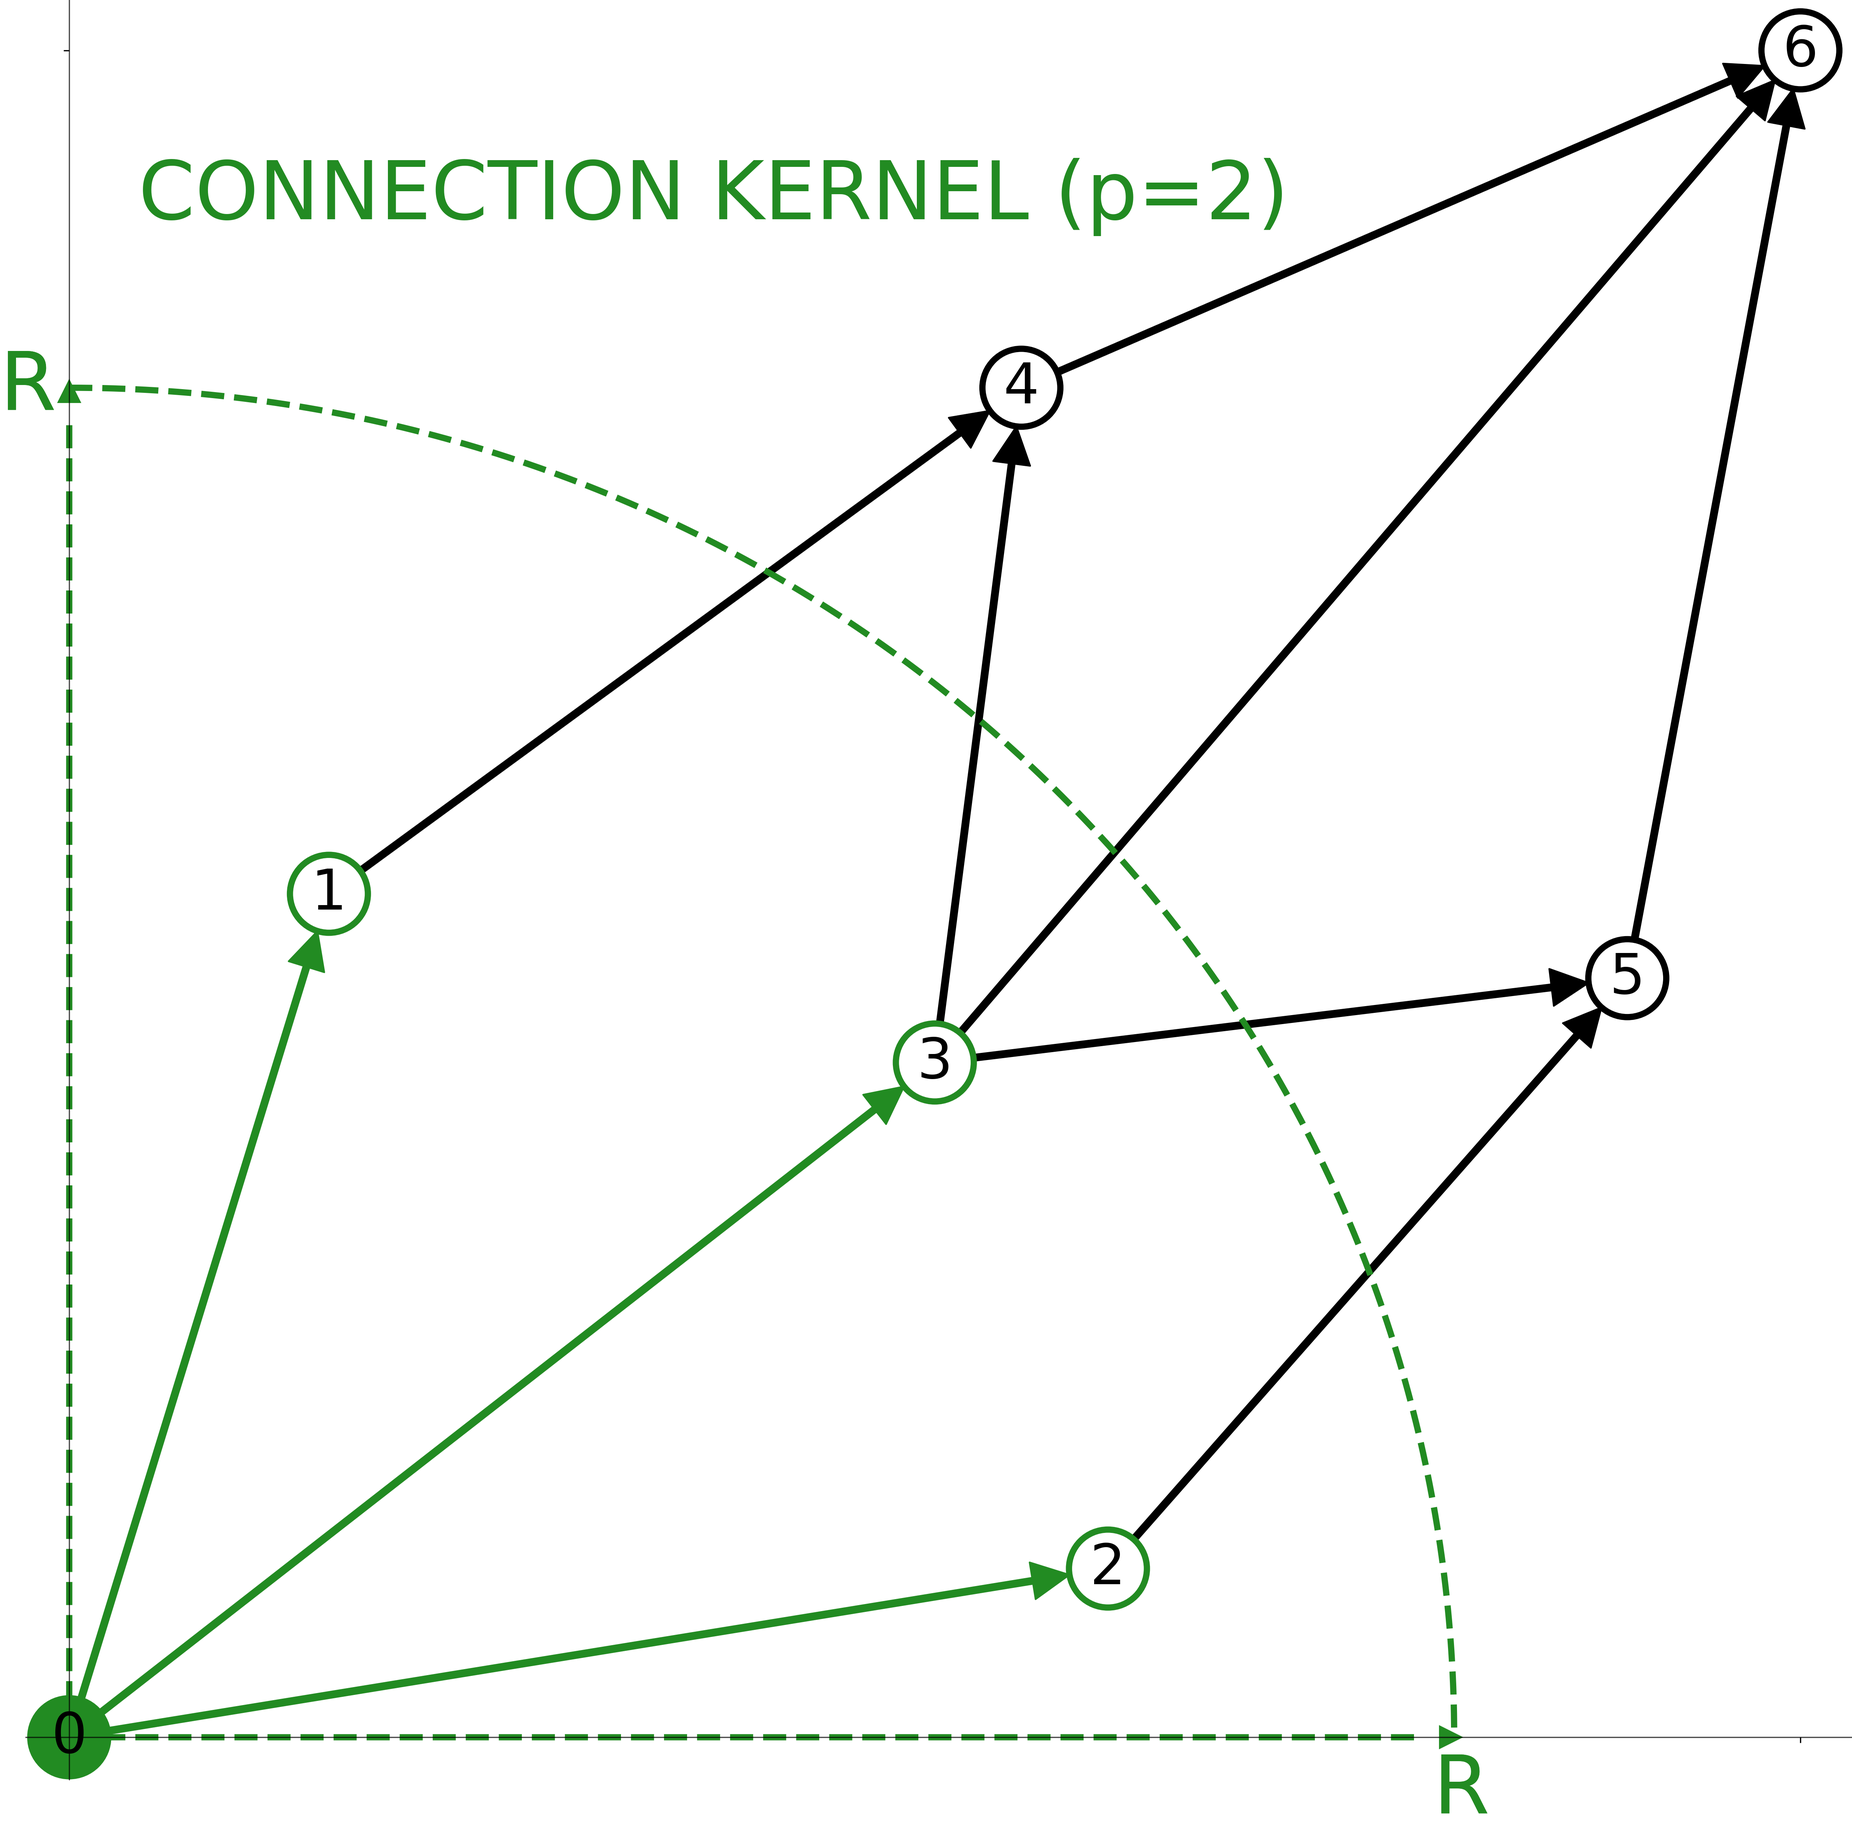
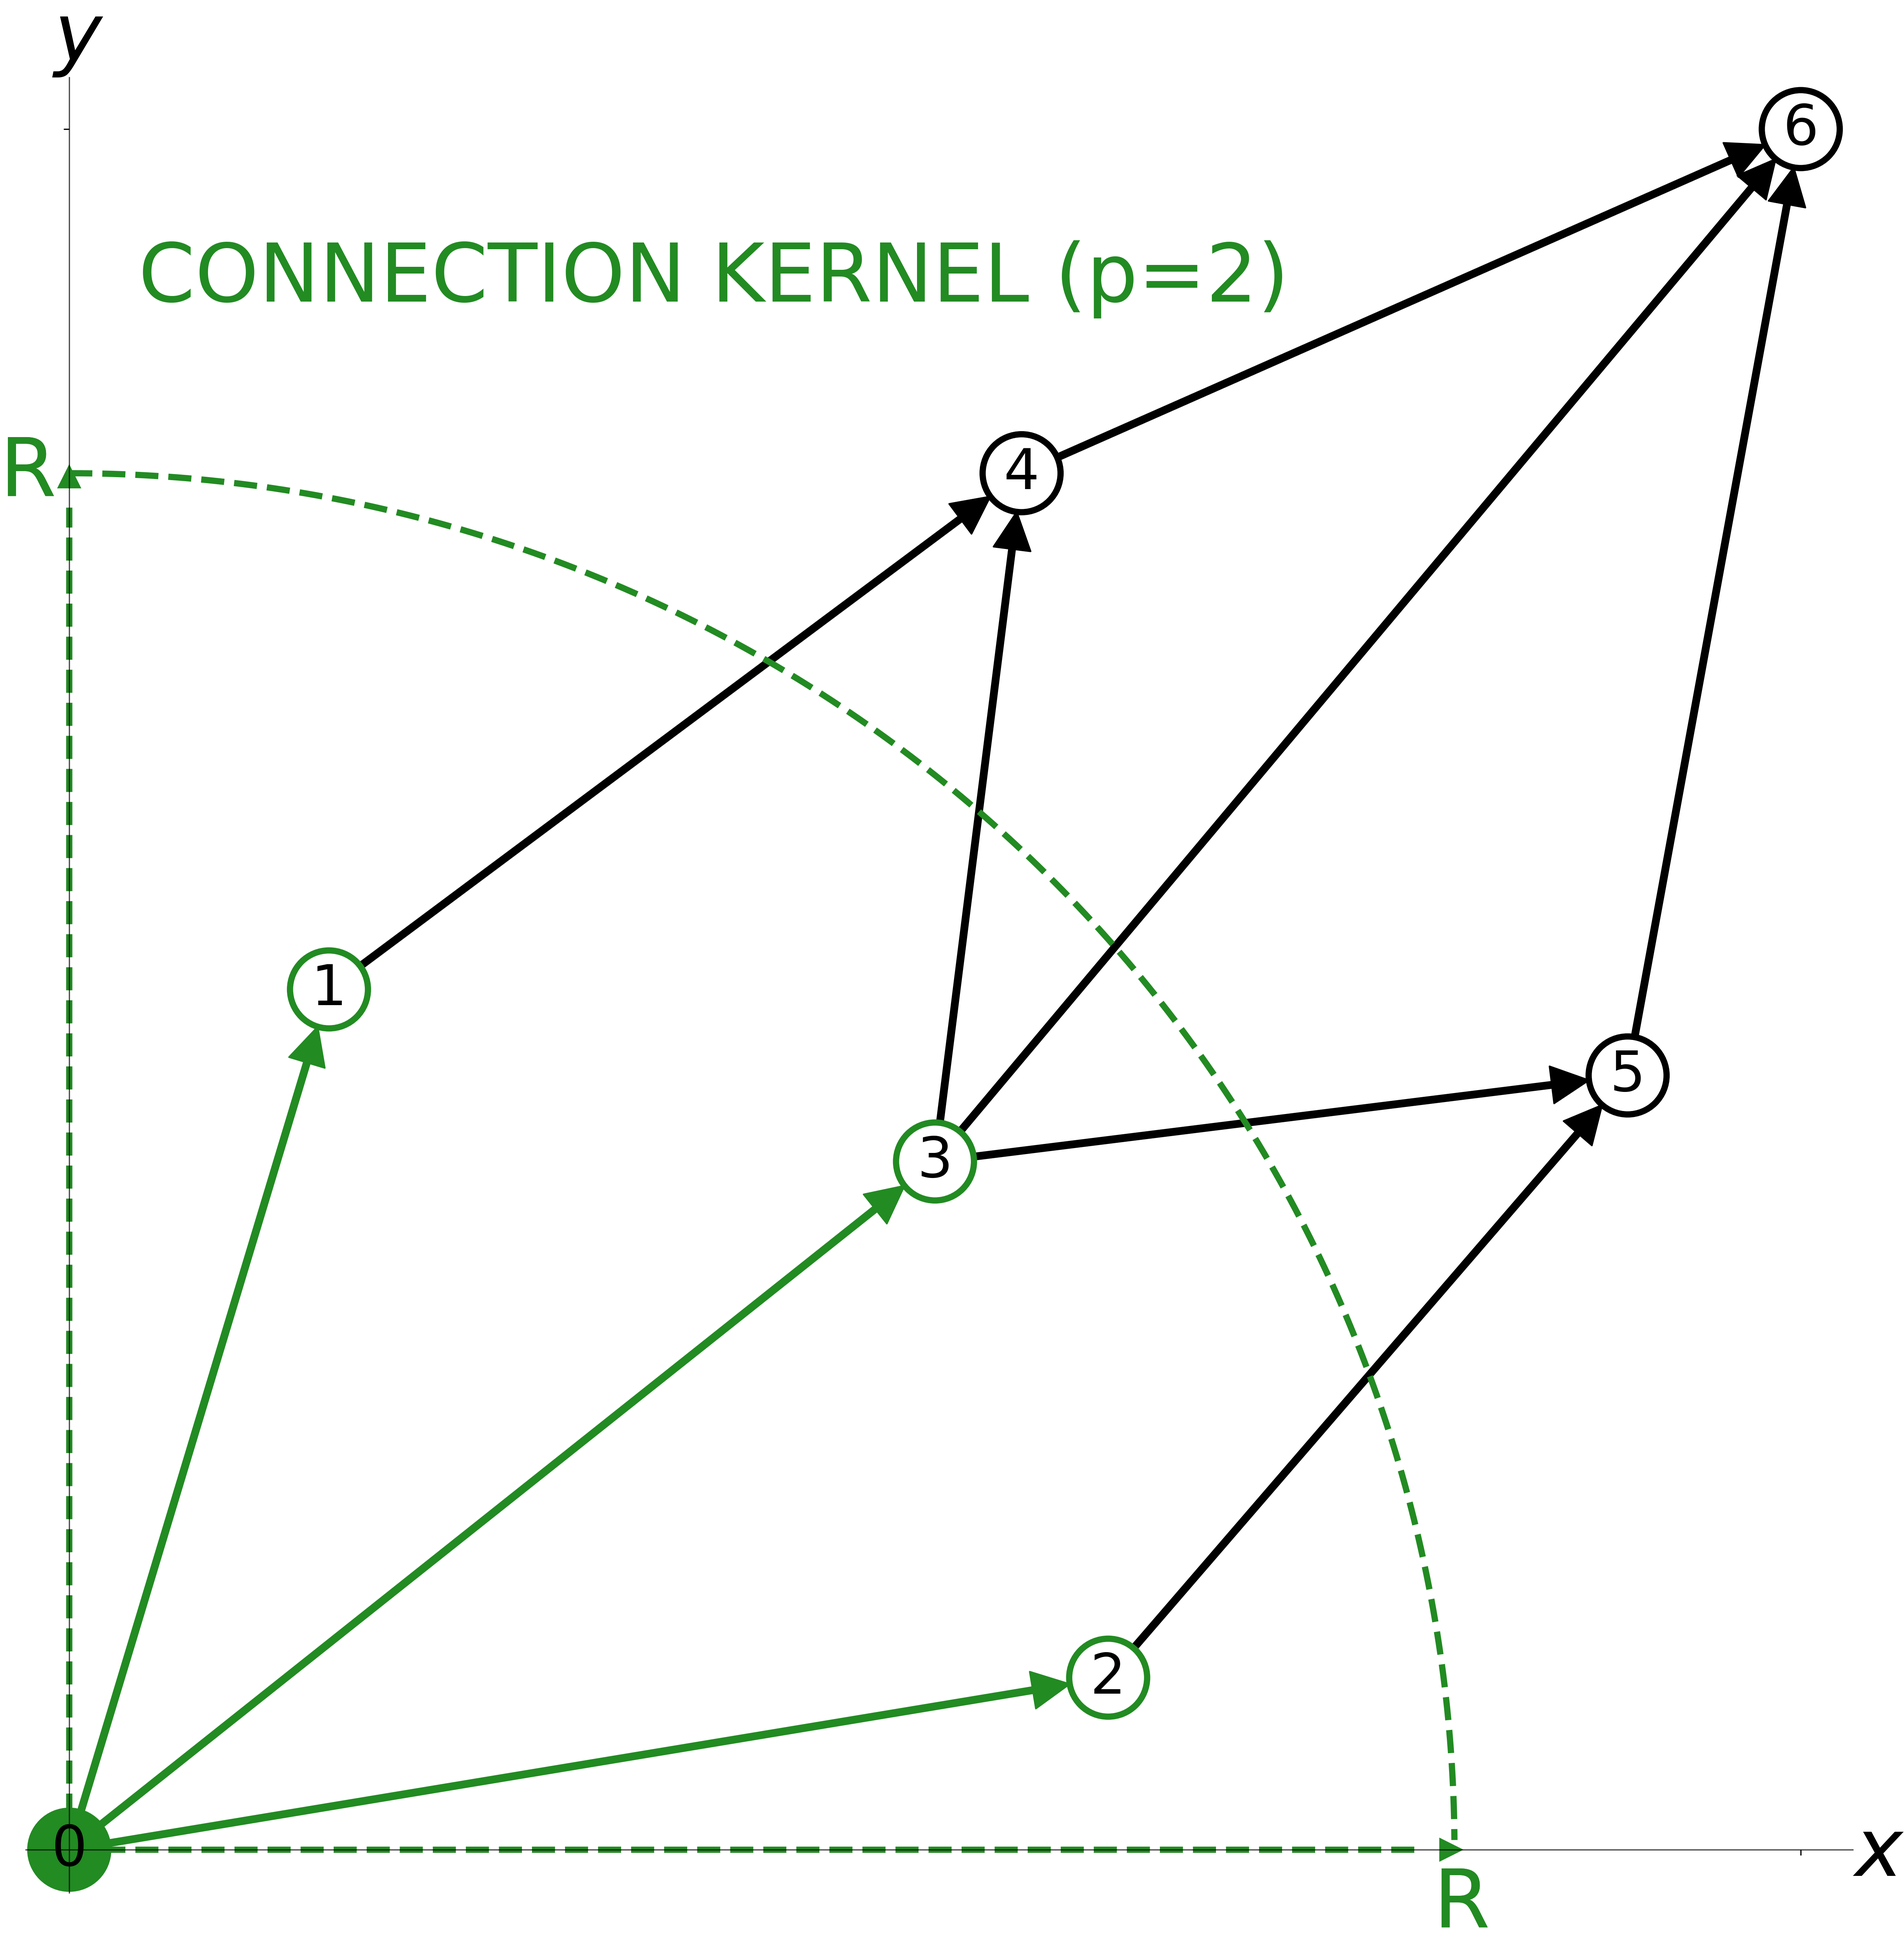
updated plotter_perc_2.py with GEVD

diff --git a/poster.py b/poster.py
@@ -97,15 +97,15 @@ for p,col,l in zip(P, cols, ls):
         
     ax.annotate('p=%s' % (p), np.array(intersection(x,y,x,x)) + np.array([[-0.01],[0.03]]),c = col, fontsize = 38)
 #plt.axis('off)
-<<<<<<< HEAD
+# <<<<<<< HEAD
 fig.set_facecolor(background)
 ax.set_facecolor(background)
 # plt.savefig('poster_figs/lp-unit-circle.png', dpi = 300, bbox_inches = 'tight', pad_inches = 0)
-=======
+# =======
 #fig.set_facecolor(background)
 #ax.set_facecolor(background)
 plt.savefig('clean_figs/lp-unit-circle.png', dpi = 300, bbox_inches = 'tight', pad_inches = 0)
->>>>>>> d99d0ac06fd6f6672035f9f039958d996acf0b0d
+# >>>>>>> d99d0ac06fd6f6672035f9f039958d996acf0b0d
 plt.show()
 #%%
 "PLOT CONNECTION KERNEL"
@@ -188,6 +188,9 @@ ax.set_facecolor(background)
 #             (0.04, 0.84), c = 'r', fontsize = 52)
 ax.annotate("R", xy = (0,0), xytext = (R-0.012,-0.045), c = 'forestgreen', fontsize = 52)
 ax.annotate("R", xy = (0,0), xytext = (-0.04, R - 0.013), c = 'forestgreen', fontsize = 52)
+ax.annotate(r"$x$", xy = (0,0), xytext = (1+0.03,-0.015), c = 'black', fontsize = 52)
+ax.annotate(r"$y$", xy = (0,0), xytext = (-0.01,1 + 0.04), c = 'black', fontsize = 52)
+
 ax.set_xticks(np.arange(0,2,1))
 ax.set_yticks(np.arange(0,2,1))
 #fig.set_facecolor(background)
@@ -201,13 +204,14 @@ def path_node_to_edges(path_list_in_nodes):
     path_list_in_edges = [(path_list_in_nodes[i], path_list_in_nodes[i+1]) for i in range(len(path_list_in_nodes) - 1)]
     return path_list_in_edges
 
-def plt_edges(edge_list, pos, paths, ax, labels = None, node_size = 50, show_nodes = False, **edge_kwargs):
+def plt_edges(edge_list, pos, paths, ax, labels = None, node_size = 50, show_nodes = False, show_geodesic = True, **edge_kwargs):
     G = nx.DiGraph(edge_list)
     
     colors = iter(['#00CD6C', '#AF58BA'])#iter(mpl.colors.TABLEAU_COLORS)
     labels = iter(labels)
     lines = iter(['--', '-.', ':'])
-    ax.plot(np.linspace(0,1, 100),np.linspace(0,1, 100), ls = '-', alpha = 0.7,
+    if show_geodesic == True:
+        ax.plot(np.linspace(0,1, 100),np.linspace(0,1, 100), ls = '-', alpha = 0.7,
                         color = 'k', label = 'Quasi-geodesic', linewidth = 2.5)
     for path in paths:
         color = next(colors, 'black')
@@ -266,7 +270,7 @@ while _P:
 fig, (ax1, ax2) = plt.subplots(1,2, figsize = (18,9))
 
 #plot
-labels = ['Short', 'Long', 'Quasi-geodesic']
+labels = ['Shortest path', 'Longest path', 'Quasi-geodesic']
 for p, ax in zip(P, (ax1, ax2)) :    
     shortest_path, longest_path = pa.getPaths(G[p]['graph_dict'], 'geo')
     gnx = nx.DiGraph(G[p]['edge_list'])
@@ -281,12 +285,12 @@ for p, ax in zip(P, (ax1, ax2)) :
     
     ax.annotate(f'p = {p}', (0.5, -0.07), fontsize = 28, ha = 'center')
     #ax.set_xlabel(f'p = {p}', fontsize = 28)
-    ax.annotate('S', (-0.01,-0.03), ha = 'right', fontsize = 24)
-    ax.annotate('T', (1.01,1.01), ha = 'left', fontsize = 24)
+    ax.annotate('s', (-0.01,-0.03), ha = 'right', fontsize = 24)
+    ax.annotate('t', (1.01,1.01), ha = 'left', fontsize = 24)
     
 # ax.legend(loc = 'lower right')
 handles, labels = ax.get_legend_handles_labels()
-fig.legend(handles=handles,ncol=len(labels),loc="lower center", bbox_to_anchor=(0.5,-0.07), fontsize = 28)#, facecolor = background, edgecolor = background)
+fig.legend(handles=handles,ncol=len(labels),loc="lower center", bbox_to_anchor=(0.5,-0.07), fontsize = 24)#, facecolor = background, edgecolor = background)
 plt.tight_layout()
 
 fig.set_facecolor(background)
@@ -295,6 +299,44 @@ ax.set_facecolor(background)
 #fig.set_facecolor(background)
 #ax.set_facecolor(background)
 #plt.savefig('poster_figs/path-fig.png', dpi = 300, bbox_inches = 'tight', pad_inches = 0)
-plt.savefig('clean_figs/path-fig.png', dpi = 300, bbox_inches = 'tight', pad_inches = 0)
+# plt.savefig('clean_figs/path-fig.png', dpi = 300, bbox_inches = 'tight', pad_inches = 0)
+
+plt.show()
+
+#%%
+
+fig, ax = plt.subplots(figsize = (9,9))
+
+#plot
+labels = ['Percolating Path', 'Longest path', 'Quasi-geodesic']
+   
+shortest_path, longest_path = pa.getPaths(G[p]['graph_dict'], 'geo')
+gnx = nx.DiGraph(G[p]['edge_list'])
+nx.draw_networkx(gnx, pos, arrows = False, ax = ax, node_color = 'g', 
+                   edge_color = 'k', width = 1, alpha = 0.3, with_labels = False,
+                   node_size = 50, style = ':')
+#greedy_path = pa.greedy_path_geo(G[p]['graph_dict'])
+paths = [shortest_path]#, longest_path]#, greedy_path]
+plt_edges(G[p]['edge_list'], pos, paths, labels = labels, show_nodes = True, show_geodesic = False, ax = ax, width = 6)
+rect = mpl.patches.Rectangle((0, 0), 1, 1, linewidth=1, edgecolor='k', facecolor='none')
+ax.add_patch(rect)
+
+ax.annotate(f'p = {p}', (0.5, -0.07), fontsize = 28, ha = 'center')
+#ax.set_xlabel(f'p = {p}', fontsize = 28)
+ax.annotate('s', (-0.01,-0.03), ha = 'right', fontsize = 24)
+ax.annotate('t', (1.01,1.01), ha = 'left', fontsize = 24)
+    
+# ax.legend(loc = 'lower right')
+handles, labels = ax.get_legend_handles_labels()
+fig.legend(handles=handles,ncol=len(labels),loc="lower center", bbox_to_anchor=(0.5,-0.07), fontsize = 24)#, facecolor = background, edgecolor = background)
+plt.tight_layout()
+
+fig.set_facecolor(background)
+ax.set_facecolor(background)
+# plt.savefig('poster_figs/path-fig.png', dpi = 300, bbox_inches = 'tight', pad_inches = 0)
+#fig.set_facecolor(background)
+#ax.set_facecolor(background)
+#plt.savefig('poster_figs/path-fig.png', dpi = 300, bbox_inches = 'tight', pad_inches = 0)
+# plt.savefig('clean_figs/path-fig.png', dpi = 300, bbox_inches = 'tight', pad_inches = 0)
 
 plt.show()

diff --git a/plotter_perc_2.py b/plotter_perc_2.py
@@ -609,6 +609,11 @@ def Gumbel(x, mu, beta):
 def FrechetGumbel(x, s, alpha, mu, beta):
     return Frechet(x, s, alpha) * Gumbel(x, mu, beta)
 
+def GEVD(x, mu, sigma, xi):
+    s = (x-mu)/sigma
+    F = np.exp(-(1+xi*s)**(-1/xi))
+    return F
+
 def funcfit(func, xdata, ydata, x = None, **kwargs):
     params, cov = op.curve_fit(func, xdata, ydata, **kwargs)
     if x == None:
@@ -641,7 +646,7 @@ shapes = iter(['.', '.', '.'])
 params_dict = {p:{rho:{'params': None} for rho in RHO} for p in P}
 for d in D:
     for p in P[:]:
-        for rho in RHO: #[4096]:
+        for rho in RHO:
             x = np.array([k for k in K])
             y = np.array([(dataframe[d][p][k][rho]['p']/M) for k in x])
             yerr = [np.sqrt(M*y*(1-y))/M for y in y]
@@ -652,37 +657,29 @@ for d in D:
             Y = y[x_min:x_max]
             YERR = yerr[x_min:x_max]
             
-            w, z, params0, cov = funcfit(Frechet, X, Y, p0 = [2, 8], sigma = YERR)
-            # z0, z1 = params
-            # x_p = z0/((1/z1 + 1)**(1/z1))
-            s, t, params, cov = funcfit(FrechetGumbel, X, Y, sigma = YERR, p0 = [2, 8, 2, 2])
+            s, t, params, cov = funcfit(GEVD, X, Y, sigma = YERR, p0 = [2, 1, 1])
             params_dict[p][rho]['params'] = params
+            rchisq = reducedChiSq(GEVD, params, X, Y, YERR)
+            print(rchisq, params)
             # print(params, params[0])
             plt.ylabel(r'$\Pi(\langle k \rangle)$')
             plt.xlabel(r'$\langle k \rangle $')
-            # plt.yscale('log')
-            # plt.xscale('log')
-            # plt.ylim(10e-2, 1)
-            plt.xlim(x[x_min], x[x_max])
+            plt.xlim(1.5, x[x_max])
             plt.errorbar(x, y, yerr = yerr, fmt = '.', capsize = 3, ms = 1, label = rf'p={p}, $\rho$ = {rho}')
-            plt.plot(w, z, label = 'frechet')
-            # plt.plot(x, Frechet(x, *params[:2]))
-            # plt.plot(x, Gumbel(x, *params[2:]))
-            plt.plot(s, t, label = 'frechet * gumbel')
+            plt.plot(s, t, label = r'GEVD fit, $\chi_{red}=$' + f'{np.round(rchisq, 3)}')
             epsilon = np.sqrt(np.log(2/0.1)/(2*M))
             y_band_low = [i - epsilon for i in y]
             y_band_low = [max([0,i]) for i in y_band_low]
             y_band_up = [i + epsilon for i in y]
             y_band_up = [min([1, i]) for i in y_band_up]
             # plt.fill_between(x, y_band_low, y_band_up, alpha = 0.3)
-            plt.legend()
-            plt.show()
+            plt.legend(ncol = 2)
+        plt.show()
             
 
-            rchisq = reducedChiSq(FrechetGumbel, params, X, Y, YERR)
-            print(rchisq)
-            plt.show()
+            
 #%%
+from math import gamma
 
 def frechet(x, s, alpha):
     return (alpha/s) * ((x/s) ** (-1-alpha)) * Frechet(x, s, alpha)
@@ -693,22 +690,41 @@ def gumbel(x, mu, beta):
 def frechetgumbel(x, s, alpha, mu, beta):
     return Frechet(x, s, alpha) * gumbel(x, mu, beta) + frechet(x, s, alpha) * Gumbel(x, mu, beta)
 
+def gevd(x, mu, sigma, xi):
+    s = (x-mu)/sigma
+    f = ((1 + xi*s)**(-(1+1/xi))) * GEVD(x, mu, sigma, xi)
+    return f
+
+def gevdMode(mu, sigma, xi):
+    frac = ((1 + xi)**(-xi) - 1)/xi
+    return mu + sigma * frac
+
+def gevdVar(mu, sigma, xi):
+    g1 = gamma(1 - 1*xi)
+    g2 = gamma(1 - 2*xi)
+    var = (sigma**2) * (g2 - g1**2)/(xi**2)
+    return var
+
 for d in D:
     for p in P[:]:
-        for rho in [4096]:
+        for rho in RHO:    
             x = np.array([k for k in K])
             y = np.array([(dataframe[d][p][k][rho]['p']/M) for k in x])
             yerr = [np.sqrt(M*y*(1-y))/M for y in y]
             x_min = [k for k in K].index(min([x[i] for i in range(len(x)) if y[i] > 0])) 
             x_max = [k for k in K].index(max([x[i] for i in range(len(x)) if y[i] <0.99]))
             params = params_dict[p][rho]['params']
-            fparams = params[:2]
-            gparams = params[2:]
             
-            u = np.linspace(x[0], x[-1], 1000)
-            v = [i for i in frechetgumbel(u, *params)]
+            X = x[x_min:x_max]
+            Y = y[x_min:x_max]
+            YERR = yerr[x_min:x_max]            
+            
+            u = np.linspace(X[0], X[-1], 1000)
+            v = [i for i in gevd(u, *params)]
             plt.plot(u, v, label = f'p = {p}')
             plt.legend()
             plt.ylabel(rf'$\partial_x \; \Pi(k)$')
             plt.xlabel('k')
-            print(u[v.index(max(v))])
+            print(f'{rho}, {p}: critical point at {np.round(gevdMode(*params),3)}' )
+            # u[v.index(max(v))]
+        plt.show()
